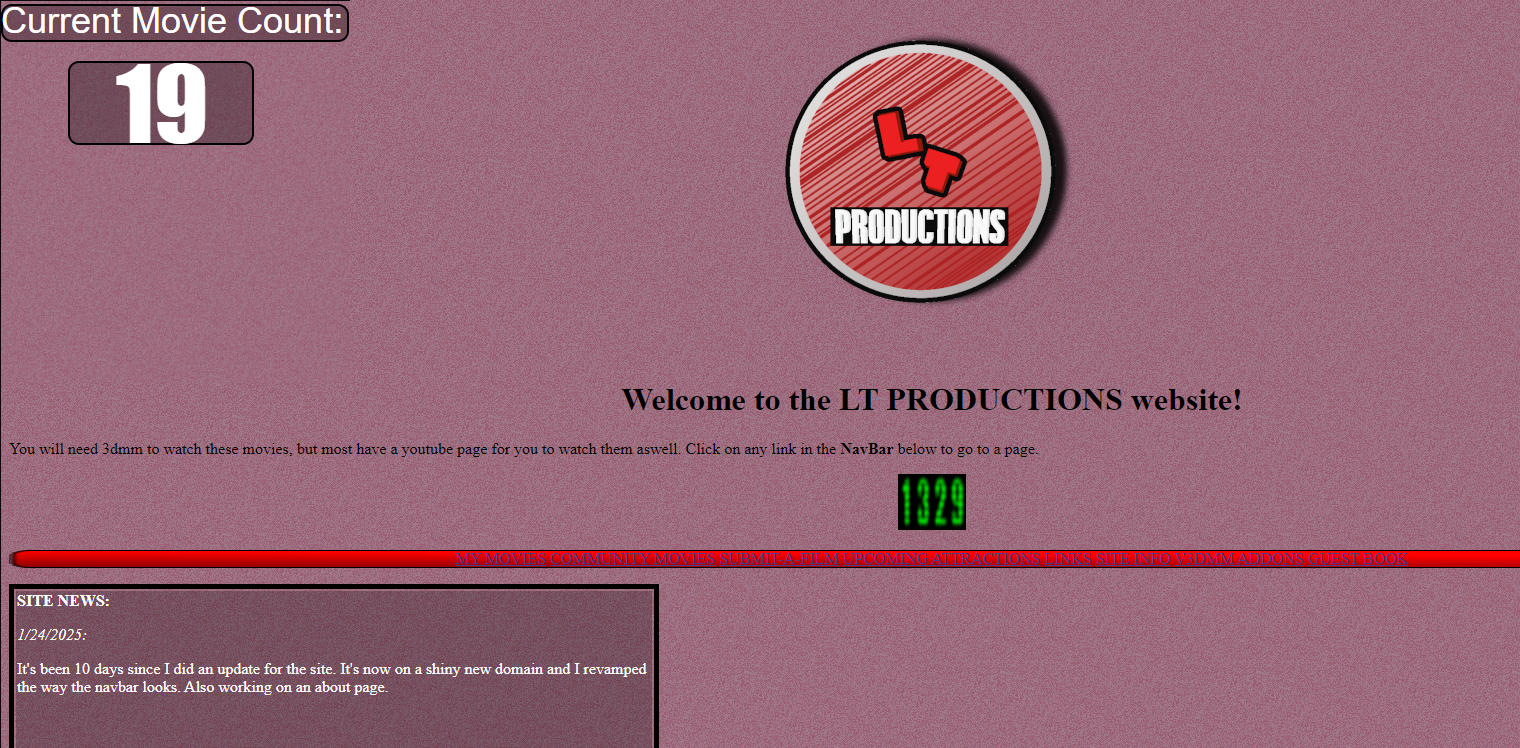
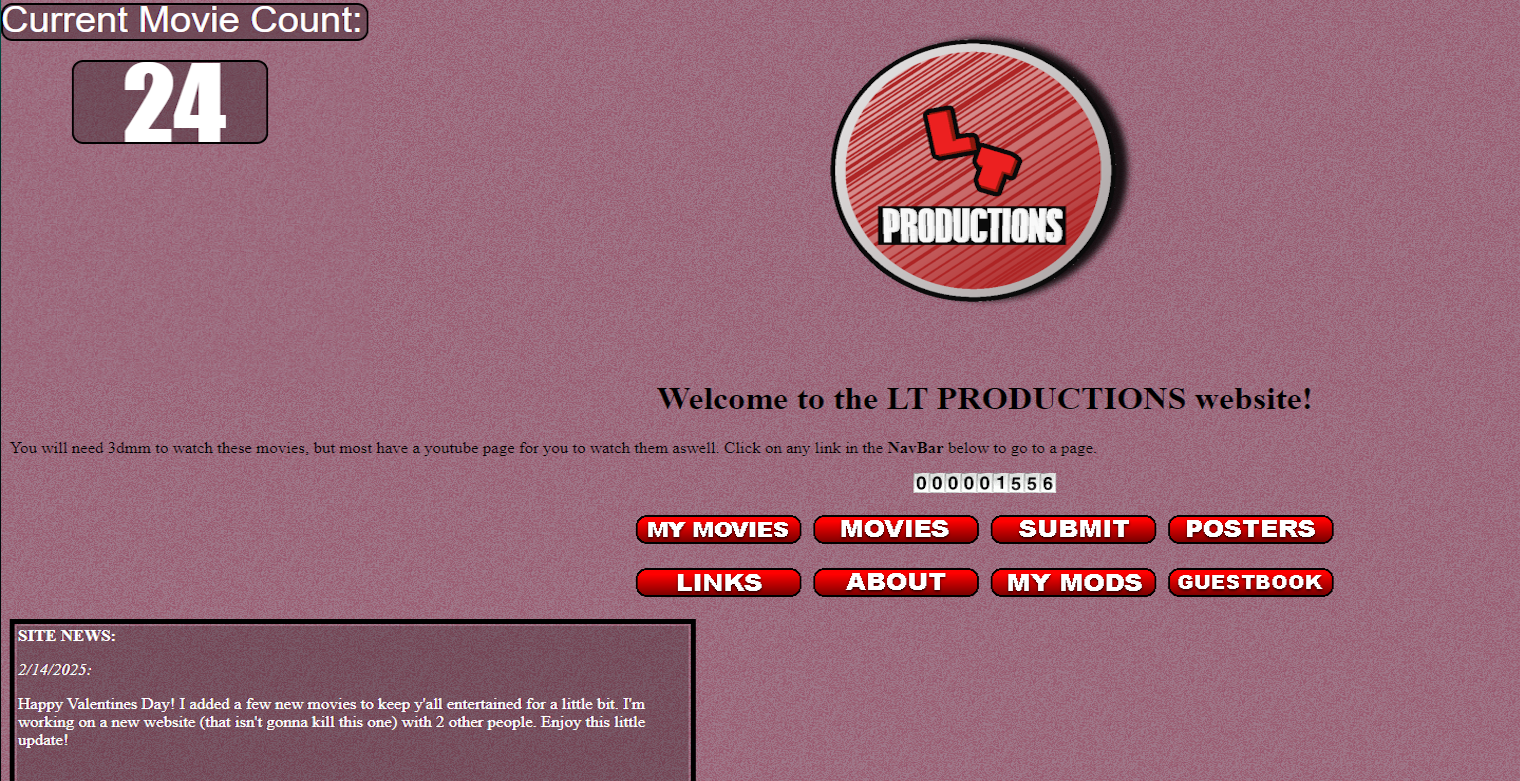
Biganount

diff --git a/othersites.html b/othersites.html
@@ -13,12 +13,70 @@
    <body style="background:url(./Site_Images/linksbg.png);">
     <a href="index.html"><img src="./Site Images/logosmall.png" alt="Home Page" style="width:100px;height:100px;"></a>
     <center><img src="./Site_Images/titles/links.png"></center>
+    <style>
+      .header
+      {
+        background:url(./Site_Images/linkbackground.png);
+        border: 5px;
+        font-size: 36px;
+        font-family:'Courier New', Courier, monospace
+      }
+      
+      .sitehref a{
+        color: rgb(141, 158, 175)
+      }
+      
+      .sitehref a:hover{
+        color: rgb(128, 147, 167)
+      }
 
-    <p>Click on any of the buttons provided on the page to go to another website!</p>
+      .sitehref a:visited{
+        color: rgb(83, 97, 110)
+      }
+    </style>
+    <table>
+      <tr><td class="header">Other Websites:</td></tr>
+      <tr><td class="link">
+       <font class="sitehref" size="5"><a href="https://3dmm.com">3dmm.com</a></font><br>
+       <br><font class="webmasterdesc" size="4">WEBMASTER: Space Goat</font><br>
+       <br><font class="sitedesc" size="3">The oldest 3dmm site around, first opened in 1997 under 'XSG Industries'. This site's still active today with a bustling community.</font>
+      </td></tr><br>
+      <br><tr><td class="link">
+        <font class="sitehref" size="5"><a href="https://3dmm.co.uk">3dmm.co.uk</a></font><br>
+        <br><font class="webmasterdesc" size="4">WEBMASTER: Will Maltby</font><br>
+        <br><font class="sitedesc" size="3">First opening in 1999 under 'willsmovies.co.uk', this was one of the more popular 3dmm sites. It ran until 2002 whenever it shut down. In 2022, Will Cheyney revived the site as an archive.</font>
+       </td></tr><br>
+       <br><tr><td class="link">
+        <font class="sitehref" size="5"><a href="https://3dmm.space">3dmm.ca</a></font><br>
+        <br><font class="webmasterdesc" size="4">WEBMASTER: Plopilpy</font><br>
+        <br><font class="sitedesc" size="3">This site is the most canadian 3dmm website, ever. Started by plop in 2021 originally under '3dmm Dungeon', this site became pretty popular for what it's worth.</font>
+       </td></tr><br>
+       <tr><td class="link">
+        <font class="sitehref" size="5"><a href="https://3dmmstudio.co.uk">3dmm Studio</a></font><br>
+        <br><font class="webmasterdesc" size="4">WEBMASTER: Will Cheyney</font><br>
+        <br><font class="sitedesc" size="3">The second biggest UK 3dmm site (first being 3dmm.co.uk), launched in March 2001. After 3dmm.co.uk laid dormant for a few years, this site took over as the most popular UK 3dmm site.</font>
+       </td></tr><br>
+       <tr><td class="link">
+        <font class="sitehref" size="5"><a href="https://tnt-films.neocities.org">Tnt Films</a></font><br>
+        <br><font class="webmasterdesc" size="4">WEBMASTER: Pokerman</font><br>
+        <br><font class="sitedesc" size="3">This site was launched in 2022 after pokerman got burnt out working on his previous site '3dmm Wasteland'. Even though it hasn't been updated in 2 years, it stil looks good.</font>
+       </td></tr><br>
+       <br><tr><td class="link">
+        <font class="sitehref" size="5"><a href="https://dragonfilms.thegerf.net">Dragon Films</a></font><br>
+        <br><font class="webmasterdesc" size="4">WEBMASTER: Greg Strnad</font><br>
+        <br><font class="sitedesc" size="3">One of the more older 3dmm sites, launched in 1998. This site was fairly active with updates until 2006, and then in 2014 it became an archive of the past.</font>
+       </td></tr><br>
+       <br><tr><td class="link">
+        <font class="sitehref" size="5"><a href="https://benny.systeme.io/3dmm">Benny's 3dmm Site</a></font><br>
+        <br><font class="webmasterdesc" size="4">WEBMASTER: BurgerBenis</font><br>
+        <br><font class="sitedesc" size="3">Opened in 2024 after his other site '3dmm.carrd.io' shut down, this is a pretty good site for a beginner. It has the basic necessities of a 3dmm site, but its simplistic design's amazing.</font>
+       </td></tr><br>
+       <br><tr><td class="link">
+        <font class="sitehref" size="5"><a href="https://unitedfr0nt.github.io/UNITEDFRONT/">United Front</a></font><br>
+        <br><font class="webmasterdesc" size="4">WEBMASTER: LT FILMS, Plopilpy, and BurgerBenny</font><br>
+        <br><font class="sitedesc" size="3">This site opened in 4/20/2025 and the idea was that it was 3 people from different countries working on a site. It has the things you'd expect from a 3dmm site, and a pretty clean interface.</font>
+       </td></tr><br>
+    </table>
     
-
-    <a href="https://3dmm.com"><img src="https://i.imgur.com/Ej1SyLv.gif" alt="3dmm.com" ></a> <a href="https://3dmm.space"><img src="https://i.imgur.com/RBRM7pY.gif" alt="3dmm.ca" ></a> </a> <a href="https://3dmmstudio.co.uk"><img src="https://i.imgur.com/ccHCl4y.gif" alt="3dmm Studio" ></a>  <a href="https://tnt-films.neocities.org"><img src="https://i.imgur.com/tn7AEoo.gif" alt="Tnt Films" ></a> <a href="https://dragonfilms.thegerf.net"><img src="https://i.imgur.com/38HfSnx.gif" alt="Dragon Films" ></a> <a href="https://benny.systeme.io/3dmm"><img src="https://i.imgur.com/MYjjMlb.gif" alt="Benny's 3dmm" ></a>  <a href="https://3dmm.co.uk"><img src="https://i.imgur.com/oUWW8MD.gif" alt="3dmm.co.uk" ></a> 
-    
-
   </body>
 </html>

diff --git a/communitystuff.html b/communitystuff.html
@@ -76,31 +76,31 @@ tr:nth-child(odd) {background:url(./Site_Images/moviecomlist2.png);}
   </tr>
 
 <tr>
-    <td>NULL</td>
-    <td>SYNOPSIS</td>
-    <td>DIRECTOR NAME</td>
-    <td><a href="https://www.youtube.com/watch?v=PGJKeESLBpQ"><img src="./Site Images/comingsoonwebsite.png" style="width:136px;height:77px;"></a></td>
+  <td><a href="https://www.mediafire.com/file/hi4okb9pifhn40f/DD+Cut+scenes.3mm/file">Diabolical Delightment (Deleted Scenes)</td></a>
+    <td>A collection of cut scenes from Diabolical Delightment.</td>
+    <td>Will Maltby</td>
+    <td><a href="https://www.youtube.com/watch?v=_yY5AEOb3BQ"><img src="https://files.catbox.moe/zlrqyp.png" style="width:136px;height:77px;"></a></td>
   </tr>
 
 <tr>
-    <td>NULL</td>
-    <td>SYNOPSIS</td>
-    <td>DIRECTOR NAME</td>
-    <td><a href="https://www.youtube.com/watch?v=PGJKeESLBpQ"><img src="./Site Images/comingsoonwebsite.png" style="width:136px;height:77px;"></a></td>
+  <td><a href="https://www.mediafire.com/file/a36pnw86qgxar90/JACKSON.3mm/file">Jackson</td></a>
+    <td>A movie following the story of a single $20 bill as it's exchanged between various people.</td>
+    <td>Jason Ruiz</td>
+    <td><a href="https://www.youtube.com/watch?v=csThqzkK5PQ"><img src="https://files.catbox.moe/gjrepj.png" style="width:136px;height:77px;"></a></td>
   </tr>
 
 <tr>
-    <td>NULL</td>
-    <td>SYNOPSIS</td>
-    <td>DIRECTOR NAME</td>
-    <td><a href="https://www.youtube.com/watch?v=PGJKeESLBpQ"><img src="./Site Images/comingsoonwebsite.png" style="width:136px;height:77px;"></a></td>
+  <td><a href="https://www.mediafire.com/file/a36pnw86qgxar90/JACKSON.3mm/file">Michael in Mexico 2</td></a>
+    <td>Another pointless action movie in mexico, however this time with a tiny bit of plot.</td>
+    <td>Michael Sanford</td>
+    <td><a href="https://www.youtube.com/watch?v=2cQg4u2nkUY"><img src="https://files.catbox.moe/k5h4r5.png" style="width:136px;height:77px;"></a></td>
   </tr>
 
 <tr>
-    <td>NULL</td>
-    <td>SYNOPSIS</td>
-    <td>DIRECTOR NAME</td>
-    <td><a href="https://www.youtube.com/watch?v=PGJKeESLBpQ"><img src="./Site Images/comingsoonwebsite.png" style="width:136px;height:77px;"></a></td>
+  <td><a href="https://www.mediafire.com/file/a36pnw86qgxar90/JACKSON.3mm/file">Chain Of Events</td></a>
+    <td>The epic story of one man's quest to get to the bus stop, and everything else that happens around him.</td>
+    <td>Directed By: 12 People</td>
+    <td><a href="https://www.youtube.com/watch?v=wJwY9Gzy7FA"><img src="https://files.catbox.moe/dkcs0m.png" style="width:136px;height:77px;"></a></td>
   </tr>
   </body>
 </html>

diff --git a/news.html b/news.html
@@ -1,0 +1,48 @@
+<!DOCTYPE html>
+<html>
+  <head>
+    <meta charset="UTF-8">
+    <meta name="viewport" content="width=device-width, initial-scale=1.0">
+    <link rel="icon" type="image/x-icon" href="https://i.imgur.com/DDOwOc1.png">
+    <title>News Area</title>
+    <!-- The style.css file allows you to change the look of your web pages.
+         If you include the next line in all your web pages, they will all share the same look.
+         This makes it easier to make new pages for your site. -->
+    <link href="/style.css" rel="stylesheet" type="text/css" media="all">
+  <head> <style>table {
+    border: 5px solid;
+    border-radius: 25px;
+    padding: 20px;
+    width: 1050px;
+    height: 870px;
+    background: url(./newsbg.png);
+    background-position: left top;
+    background-repeat: repeat;
+  }
+  
+  .newsbox{
+  color: white;
+  }
+  </style></head>
+  <body style="background:url(./Site_Images/newspbg.png);">
+    <center><img src="./Site_Images/titles/news.png"></center>
+
+  <a href="index.html"><img src="./Site Images/logosmall.png" alt="Home Page" style="width:100px;height:100px;"></a>
+   <font size="3" color="white">BELOW ARE ARCHIVES OF PREVIOUS NEWS ENTRIES:</font>
+   <center><table width="1050">
+    <td class="newsbox">
+<i><p>2/14/2025:</p></i>
+Happy Valentines Day! I added a few new movies to keep y'all entertained for a little bit. I'm working on a new website (that isn't gonna kill this one) with 2 other people. Enjoy this little update!</p><br>
+<i><p>1/14/2025:</p></i>
+<p>Added a movie counter to show people how many movies there are on the site.</p><br>
+<i><p>1/8/2025:</p></i>
+<p>A new update for the website! 4 new movies have been added to the site, the 3dmm.com poster links to a gallery of posters thread on 3dmm.com, and I updated some other stuff.</p><br>
+<i><p>1/1/2025:</p></i>
+<p>Happy New Year! The headers on every page except for the index have been changed with images, and a new movie (DAWN) has been uploaded.</p><br>
+<i><p>12/30/2024:</p></i>
+<p>Added news area to website for user to look at updates.</p><br>
+</td>
+</table></center>
+  </body>
+  
+</html>

diff --git a/guestbook.html b/guestbook.html
@@ -1,3 +1,4 @@
+
 <!DOCTYPE html>
 <html>
   <head>
@@ -20,7 +21,7 @@ background-image:url(/navbar.png);
   </script>
   <a href="index.html"><img src="./Site Images/logosmall.png" alt="Home Page" style="width:100px;height:100px;"></a>
 
-  <center><iframe src="https://www.ultraguest.com/view/1668831540" style="width:1000px; height: 3000px; margin: 0; padding: 0;"></center>
+  <center><iframe src="https://www.ultraguest.com/view/1739644336" style="width:1000px; height: 3000px; margin: 0; padding: 0;"></center>
   </body>
   
 </html>
